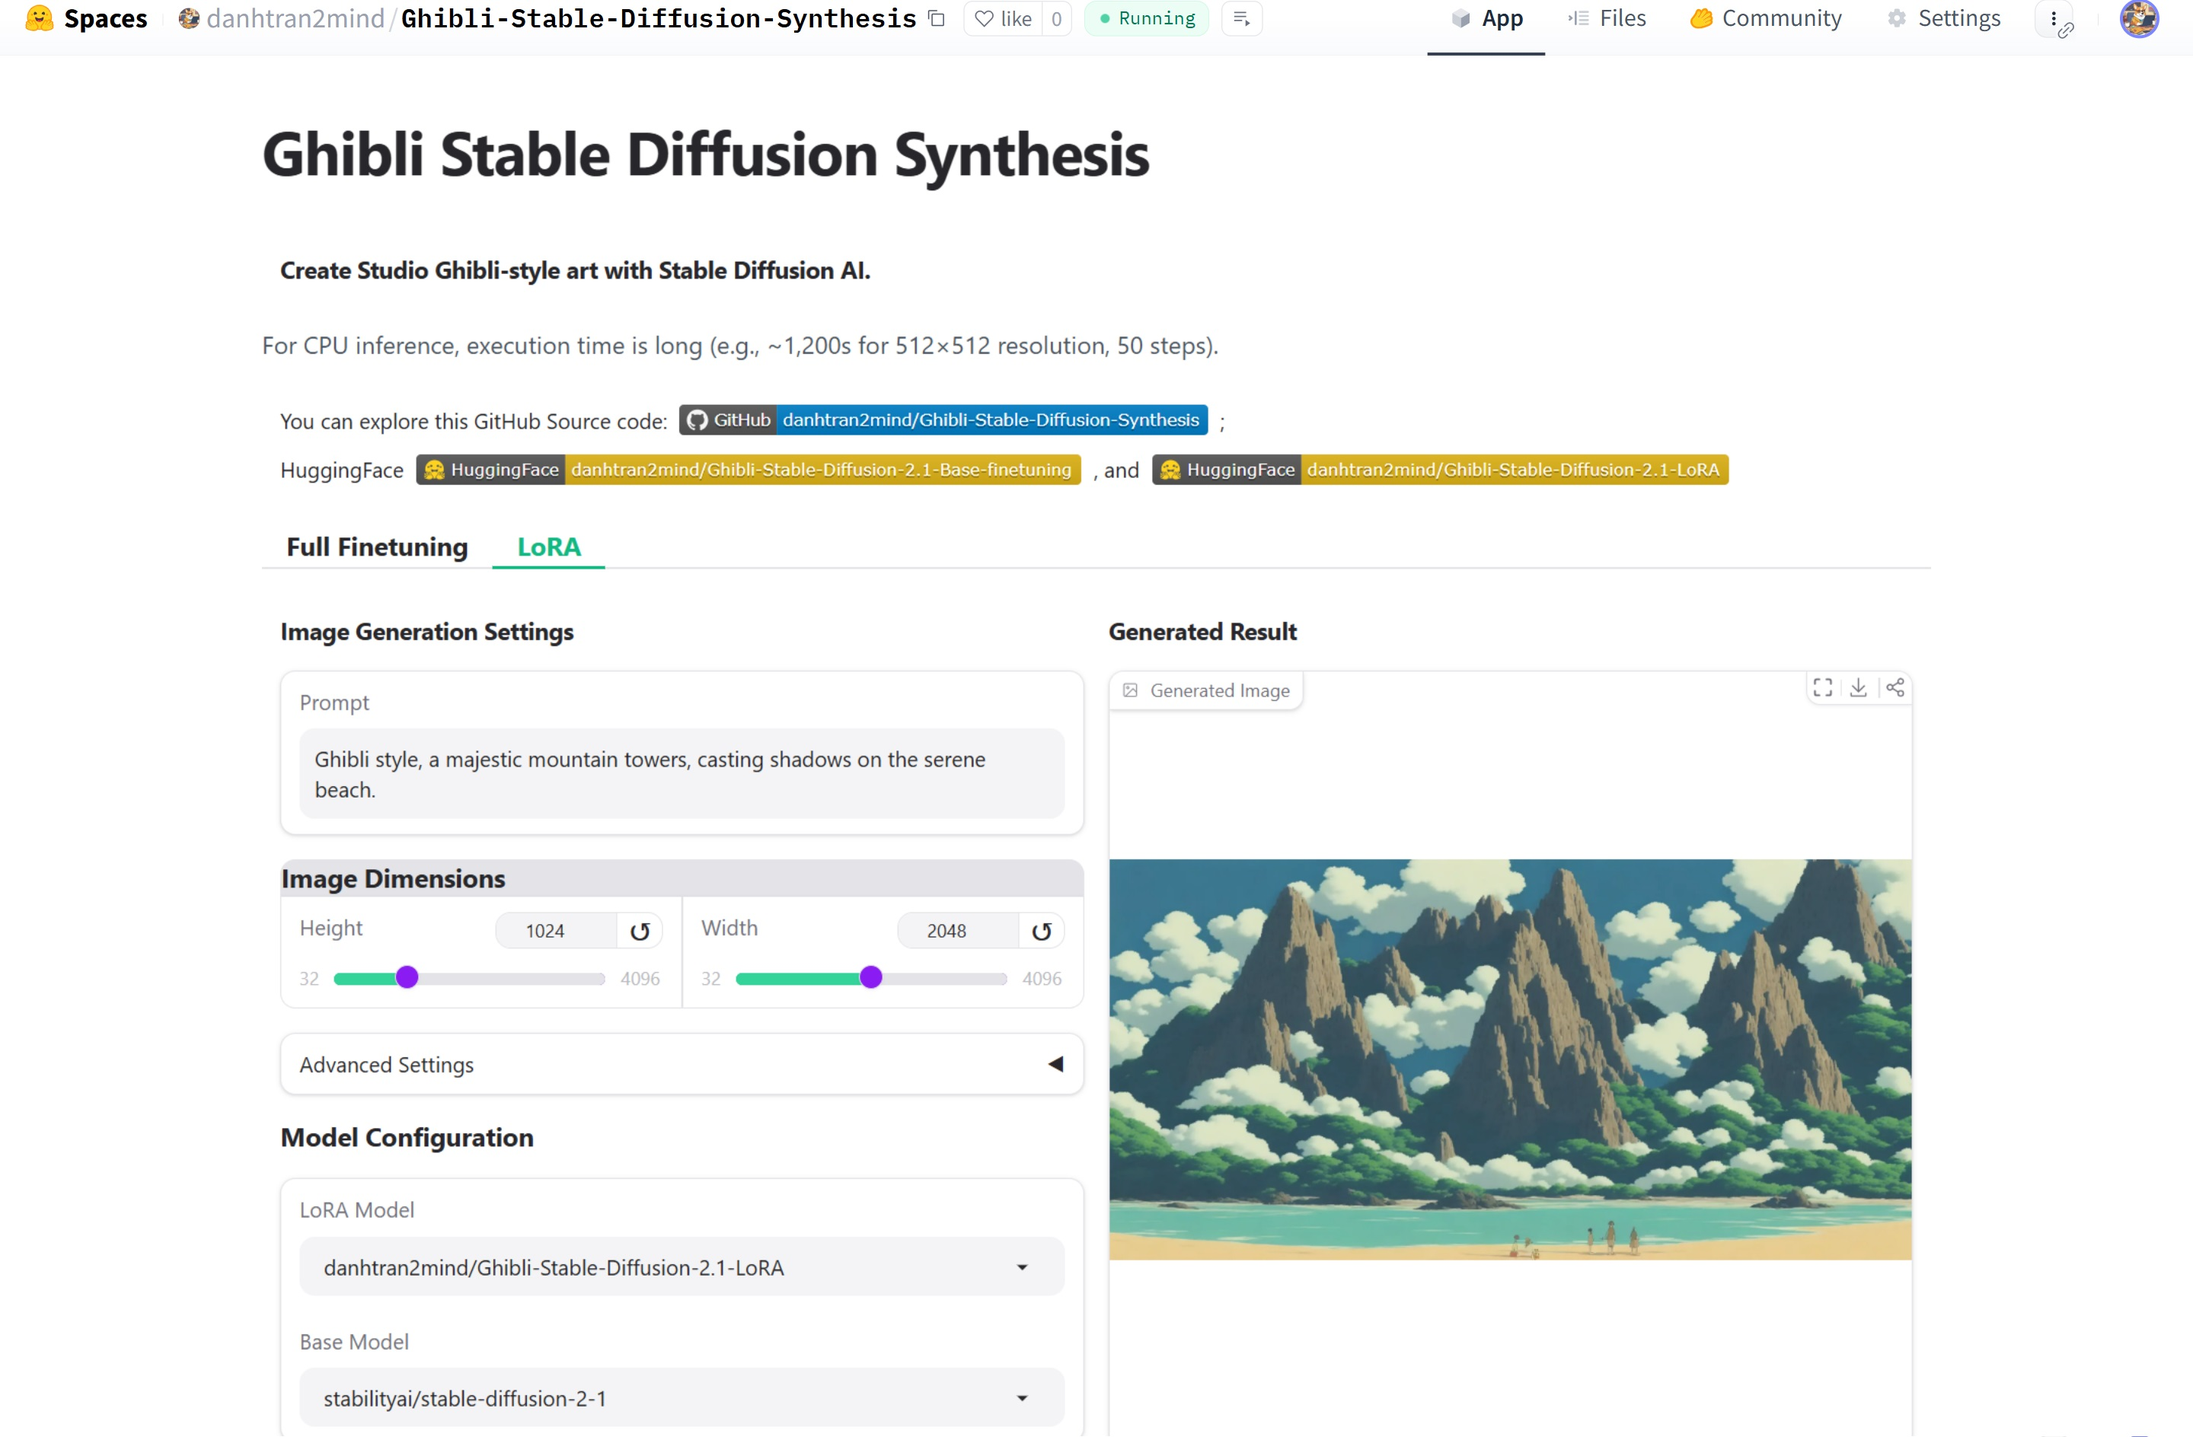
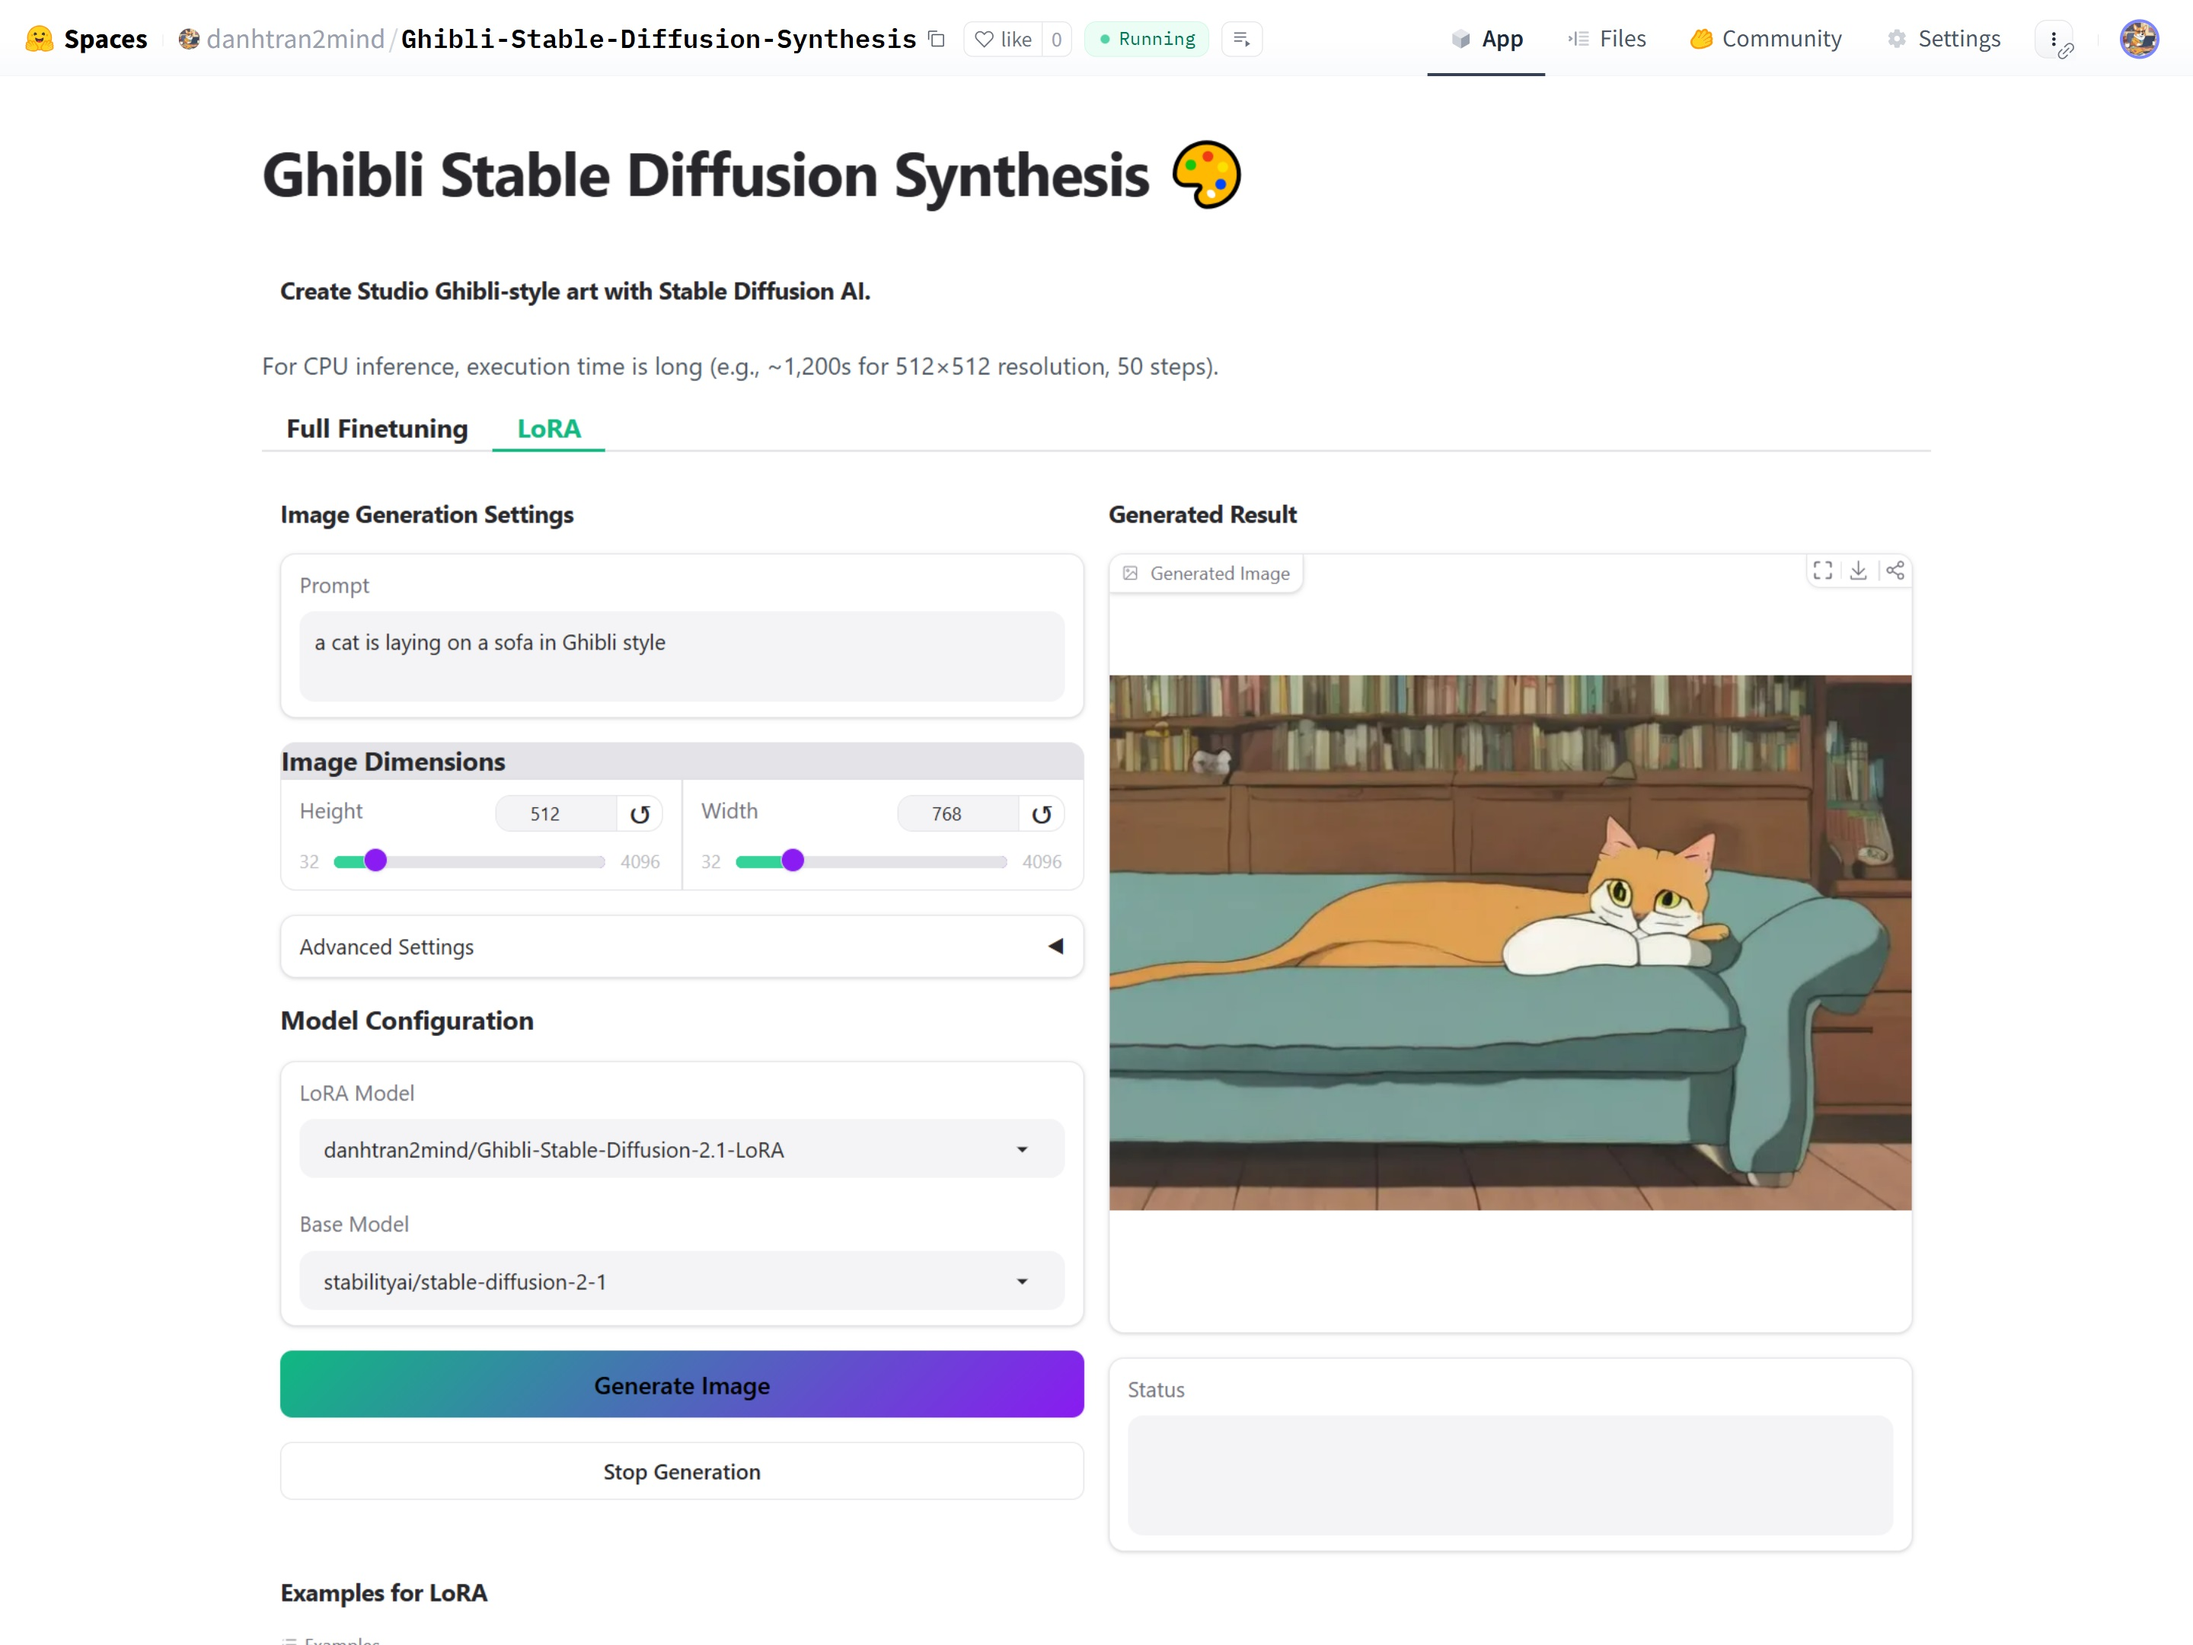
Change some codes

diff --git a/apps/gradio_app/gui_components.py b/apps/gradio_app/gui_components.py
@@ -3,7 +3,7 @@ import torch
 import os
 from .example_handler import get_examples
 from .image_generator import generate_image
-from .project_info import intro_1, intro_2, intro_3, outro_1
+from .project_info import intro_1, intro_2, outro_1, outro_2
 
 def load_example_image_full_finetuning(prompt, height, width, num_inference_steps, guidance_scale, seed, image, finetune_model_id):
     return prompt, height, width, num_inference_steps, guidance_scale, seed, image, finetune_model_id, "Loaded example successfully"
@@ -29,10 +29,9 @@ def create_gui(model_configs, device):
     examples_lora = get_examples("apps/gradio_app/assets/examples/Ghibli-Stable-Diffusion-2.1-LoRA", use_lora=True)
 
     with gr.Blocks(css=custom_css, theme="ocean") as demo:
-        gr.Markdown("# Ghibli Stable Diffusion Synthesis")
+        gr.Markdown("# Ghibli Stable Diffusion Synthesis 🎨")
         gr.HTML(intro_1)
         gr.Markdown(intro_2)
-        gr.HTML(intro_3)
         with gr.Tabs():
             with gr.Tab(label="Full Finetuning"):
                 with gr.Row():
@@ -51,12 +50,14 @@ def create_gui(model_configs, device):
                             seed_ft = gr.Slider(0, 4294967295, 42, step=1, label="Seed")
                         gr.Markdown("#### Model Configuration")
                         finetune_model_path_ft = gr.Dropdown(label="Fine-tuned Model", choices=[mid for mid, cfg in model_configs.items() if cfg.get('type') == 'full_finetuning'], value=finetune_model_id)
+
+                        generate_btn_ft = gr.Button("Generate Image", variant="primary")
+                        stop_btn_ft = gr.Button("Stop Generation")
                     with gr.Column(scale=1):
                         gr.Markdown("### Generated Result")
                         output_image_ft = gr.Image(label="Generated Image", interactive=False, height=512)
                         output_text_ft = gr.Textbox(label="Status", interactive=False, lines=3)
-                        generate_btn_ft = gr.Button("Generate Image", variant="primary")
-                        stop_btn_ft = gr.Button("Stop Generation")
+                        
                 gr.Markdown("### Examples for Full Finetuning")
                 gr.Examples(examples=examples_full_finetuning, inputs=[prompt_ft, height_ft, width_ft, num_inference_steps_ft, guidance_scale_ft, seed_ft, output_image_ft, finetune_model_path_ft], 
                             outputs=[prompt_ft, height_ft, width_ft, num_inference_steps_ft, guidance_scale_ft, seed_ft, output_image_ft, finetune_model_path_ft, output_text_ft], 
@@ -81,18 +82,20 @@ def create_gui(model_configs, device):
                         gr.Markdown("#### Model Configuration")
                         lora_model_path_lora = gr.Dropdown(label="LoRA Model", choices=[mid for mid, cfg in model_configs.items() if cfg.get('type') == 'lora'], value=lora_model_id)
                         base_model_path_lora = gr.Dropdown(label="Base Model", choices=[model_configs[mid].get('base_model_id') for mid in model_configs if model_configs[mid].get('base_model_id')], value=base_model_id)
+                        
+                        generate_btn_lora = gr.Button("Generate Image", variant="primary")
+                        stop_btn_lora = gr.Button("Stop Generation")
                     with gr.Column(scale=1):
                         gr.Markdown("### Generated Result")
                         output_image_lora = gr.Image(label="Generated Image", interactive=False, height=512)
                         output_text_lora = gr.Textbox(label="Status", interactive=False, lines=3)
-                        generate_btn_lora = gr.Button("Generate Image", variant="primary")
-                        stop_btn_lora = gr.Button("Stop Generation")
+                        
                 gr.Markdown("### Examples for LoRA")
                 gr.Examples(examples=examples_lora, inputs=[prompt_lora, height_lora, width_lora, num_inference_steps_lora, guidance_scale_lora, seed_lora, output_image_lora, lora_model_path_lora, base_model_path_lora, lora_scale_lora], 
                             outputs=[prompt_lora, height_lora, width_lora, num_inference_steps_lora, guidance_scale_lora, seed_lora, output_image_lora, lora_model_path_lora, base_model_path_lora, lora_scale_lora, output_text_lora], 
                             fn=load_example_image_lora, cache_examples=False, examples_per_page=4)
-
         gr.HTML(outro_1)
+        gr.HTML(outro_2)
 
         generate_event_ft = generate_btn_ft.click(
             fn=generate_image, 

diff --git a/apps/gradio_app/project_info.py b/apps/gradio_app/project_info.py
@@ -4,7 +4,7 @@ intro_1 = """
 intro_2 = """
 For CPU inference, execution time is long (e.g., ~1,200s for 512×512 resolution, 50 steps).
 """
-intro_3 = """
+outro_1 = """
     <div style="text-align: left; font-size: 14px; display: flex; flex-direction: column; gap: 10px;">
         <div style="display: flex; align-items: center; justify-content: left; gap: 8px;">
             You can explore this GitHub Source code: <a href="https://github.com/danhtran2mind/Ghibli-Stable-Diffusion-Synthesis">
@@ -23,7 +23,7 @@ intro_3 = """
     </div>
     """.strip()
 
-outro_1 = """
+outro_2 = """
     <div style="text-align: left; font-size: 14px; display: flex; flex-direction: column; gap: 10px;">
         <div style="display: flex; align-items: center; justify-content: left; gap: 8px;">
             The pre-trained models on Hugging Face: 
